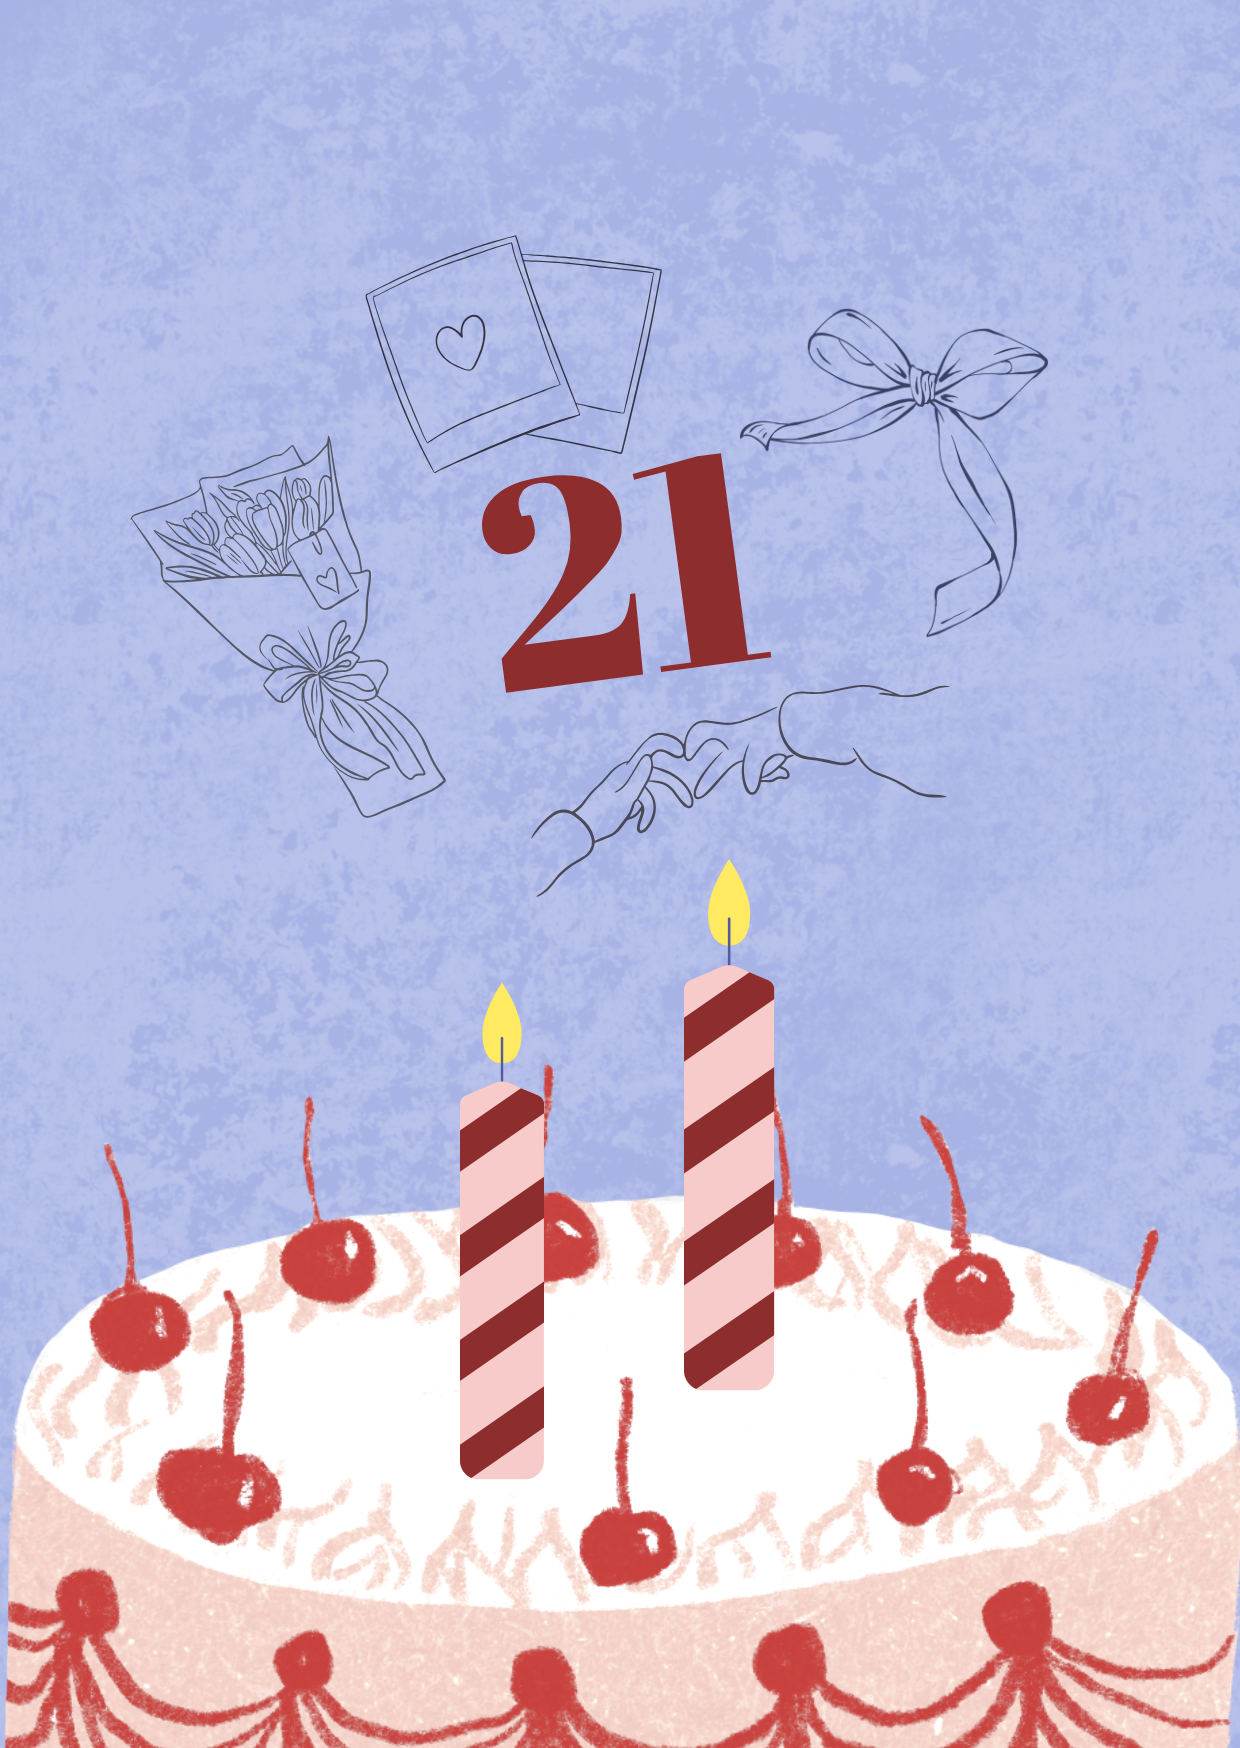
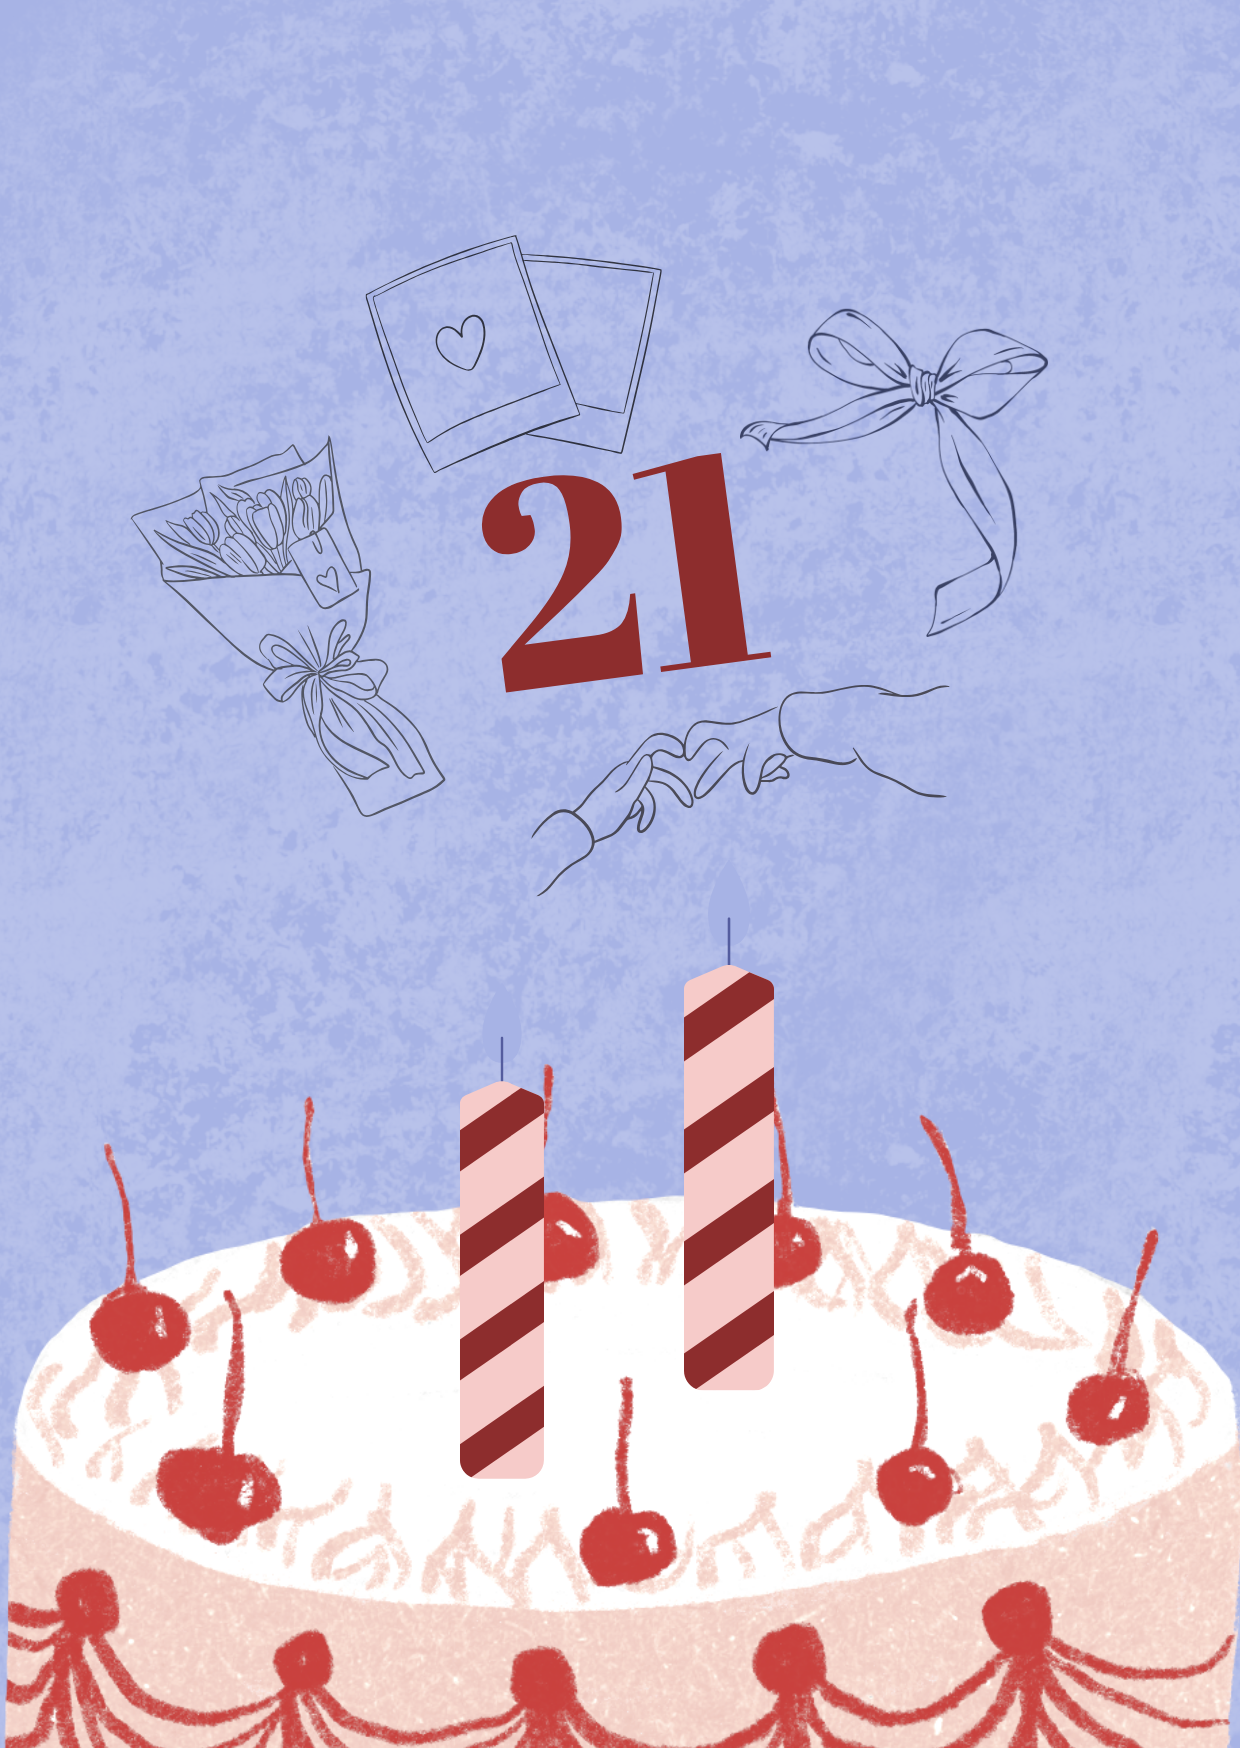
New BG

diff --git a/index.html b/index.html
@@ -28,7 +28,7 @@
         body {
             margin: 0;
             padding: 0;
-            background: var(--kraft-bg) url('bgimg.jpg') center / cover no-repeat;
+            background: var(--kraft-bg) url('bgimg.png') center / cover no-repeat;
             font-family: 'Georgia', serif;
             display: flex;
             justify-content: center;
@@ -85,7 +85,7 @@
             height: 100%;
             backface-visibility: hidden;
             border-radius: 4px;
-            box-shadow: inset 0 0 20px rgba(0,0,0,0.05), 3px 5px 15px rgba(0,0,0,0.2);
+            box-shadow: inset 0 0 20px rgba(0,0,0,0.05), 0 0 40px 6px rgba(0, 0, 0, 0.252);
             overflow: hidden;
             background: #fff;
         }
